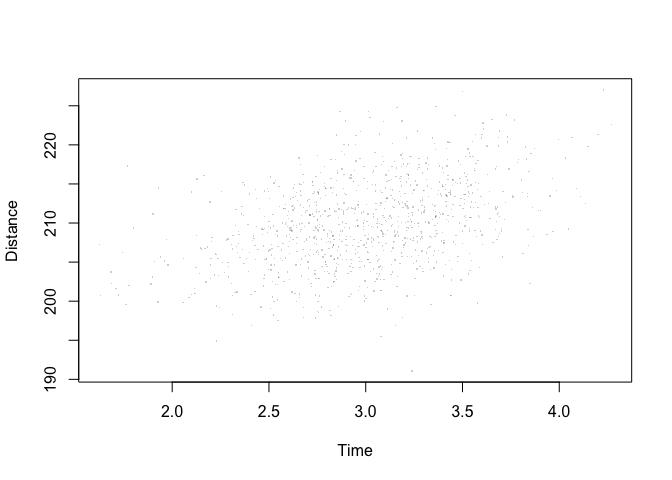
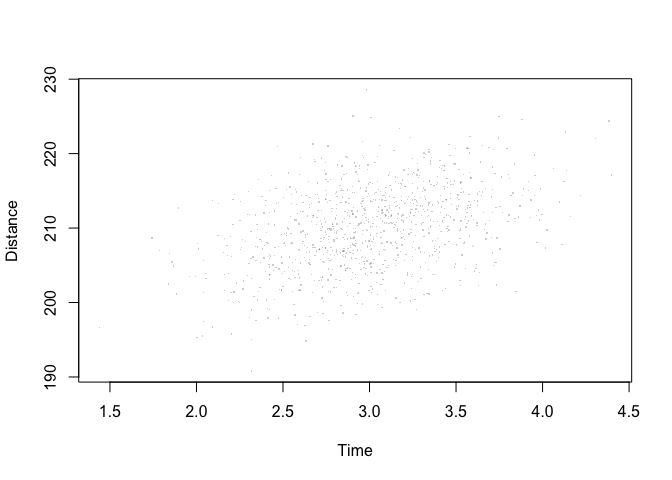
fixed readme

diff --git a/README.md b/README.md
@@ -27,13 +27,13 @@ This is a basic example which shows you how to solve a common problem:
 library(hyperr8)
 car_rates <- generate_car_simulation()
 head(car_rates)
-#>   distance     time      rate       dataset
-#> 1 203.7439 1.684582 120.94626 simulated car
-#> 2 212.6438 3.566397  59.62425 simulated car
-#> 3 208.2435 2.738483  76.04336 simulated car
-#> 4 210.0515 2.591704  81.04761 simulated car
-#> 5 208.1002 3.246711  64.09569 simulated car
-#> 6 206.9553 3.331362  62.12335 simulated car
+#>   distance     time     rate       dataset
+#> 1 211.1014 2.578783 81.86087 simulated car
+#> 2 213.5445 3.352930 63.68891 simulated car
+#> 3 209.1898 2.642042 79.17732 simulated car
+#> 4 213.9877 2.962133 72.24110 simulated car
+#> 5 209.4265 3.239187 64.65404 simulated car
+#> 6 204.6919 2.532969 80.81105 simulated car
 ```
 
 This generates a dataset with 1,000 cars with an average speed of 70 mph
@@ -42,6 +42,12 @@ of 210 miles. The driving time and distance traveled are highly
 correlated (0.99). Just looking at the raw distance versus time, we see
 a strong correlation:
 
+<img src="man/figures/README-unnamed-chunk-2-1.png" width="100%" />
+
 But if we plot the estimated rate versus time, we see a hyperbola:
 
+<img src="man/figures/README-unnamed-chunk-3-1.png" width="100%" />
+
 And this is even more clear on a log-log plot:
+
+<img src="man/figures/README-unnamed-chunk-4-1.png" width="100%" />
